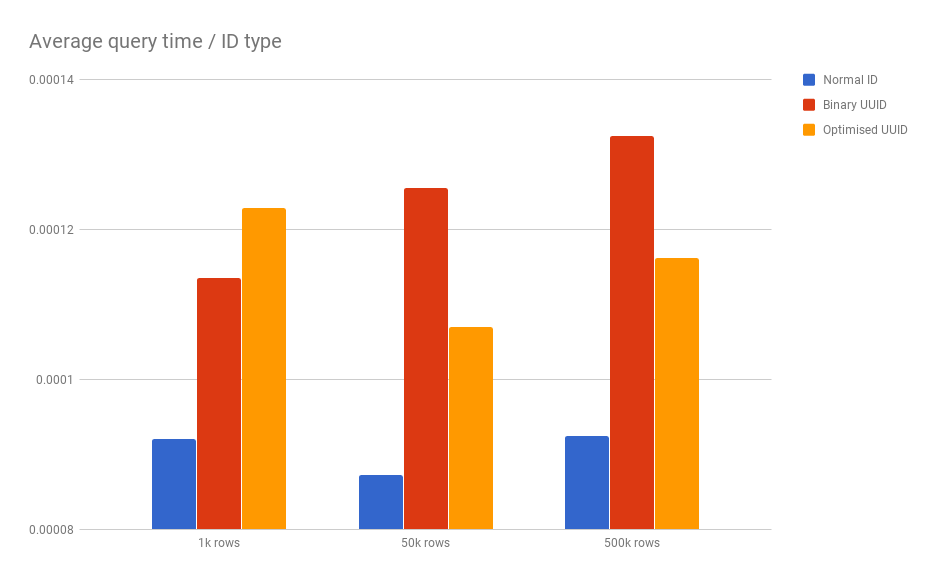
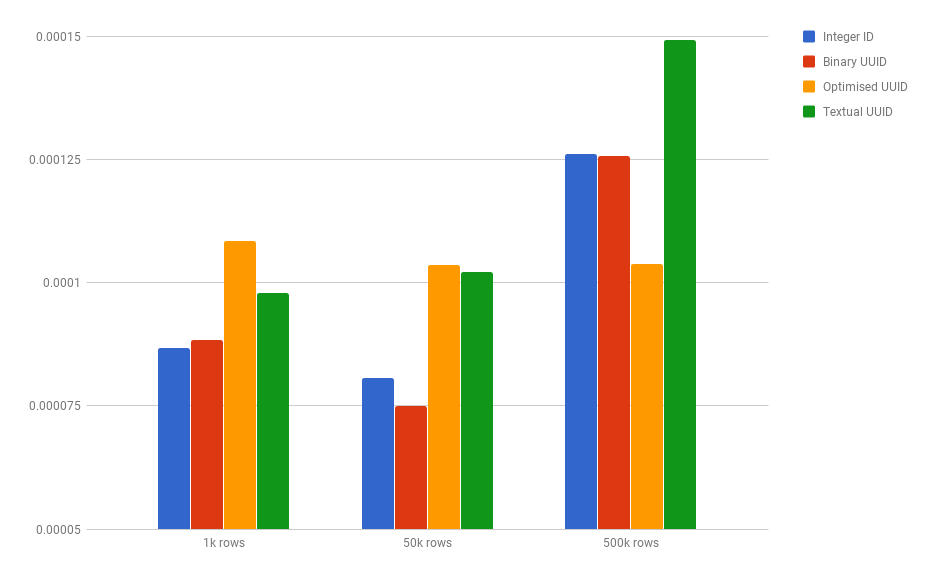
Update comparison data

diff --git a/tests/Benchmark/OptimisedUuid.php b/tests/Benchmark/OptimisedUuid.php
@@ -3,7 +3,9 @@
 namespace Spatie\BinaryUuid\Test\Benchmark;
 
 use Ramsey\Uuid\Uuid;
+use Ramsey\Uuid\UuidInterface;
 use Spatie\BinaryUuid\Test\Benchmark\Result\InlineResult;
+use Spatie\BinaryUuid\Test\TestModel;
 
 class OptimisedUuid extends Benchmark
 {
@@ -14,46 +16,15 @@ class OptimisedUuid extends Benchmark
 
     public function createTable()
     {
-        $this->connection->exec(<<<'SQL'
+        $this->connection->exec(<<<SQL
 DROP TABLE IF EXISTS `optimised_uuid`;
 
 CREATE TABLE `optimised_uuid` (
-    `optimised_uuid_binary` BINARY(16) NOT NULL,
+    `uuid` BINARY(16) NOT NULL,
+    `text` TEXT NOT NULL,
 
-    `generated_optimised_uuid_text` varchar(36) generated always as
-        (insert(
-            insert(
-                insert(
-                    insert(
-                        hex(
-                            optimised_uuid_binary
-                        ), 9,0,'-'),
-                    14,0,'-'),
-                19,0,'-'),
-            24,0,'-')
-        ) virtual,
-  
-    `generated_normal_uuid_from_optimised_uuid` varchar(36) generated always as
-        (insert(
-            insert(
-                insert(
-                    insert(
-                        hex(
-                            concat(substr(optimised_uuid_binary,5,4),substr(optimised_uuid_binary,3,2),
-                            substr(optimised_uuid_binary,1,2),substr(optimised_uuid_binary,9,8))
-                        ), 9,0,'-'),
-                    14,0,'-'),
-                19,0,'-'),
-            24,0,'-')
-        ) virtual,
-    
-    `normal_uuid_text` char(36),
-
-    PRIMARY KEY (`optimised_uuid_binary`),
-    UNIQUE (`normal_uuid_text`)
+    KEY (`uuid`)
 ) ENGINE=InnoDB DEFAULT CHARSET=utf8;
-
-ALTER TABLE `optimised_uuid` ADD unique(`optimised_uuid_binary`);
 SQL
         );
     }
@@ -63,15 +34,14 @@ SQL
         $queries = [];
 
         for ($i = 0; $i < $this->recordsInTable; $i++) {
-            $uuid = Uuid::uuid1()->toString();
-            $uuidWithoutDash = str_replace('-', '', $uuid);
+            $uuid = Uuid::uuid1();
+
+            $encodedUuid = $this->encodeBinary($uuid);
+
+            $text = $this->randomTexts[array_rand($this->randomTexts)];
 
             $queries[] = <<<SQL
-INSERT INTO `optimised_uuid` (`optimised_uuid_binary`, `normal_uuid_text`) VALUES (
-  concat(substr(unhex('$uuidWithoutDash'), 7, 2), substr(unhex('$uuidWithoutDash'), 5, 2),
-        substr(unhex('$uuidWithoutDash'), 1, 4), substr(unhex('$uuidWithoutDash'), 9, 8)),
-  '$uuid'
-);
+INSERT INTO `optimised_uuid` (`uuid`, `text`) VALUES ('$encodedUuid', '$text');
 SQL;
 
             if (count($queries) > $this->flushAmount) {
@@ -88,17 +58,33 @@ SQL;
     public function run(): InlineResult
     {
         $queries = [];
-        $uuids = $this->connection->fetchAll('SELECT HEX(`optimised_uuid_binary`) AS optimised_uuid_binary FROM `optimised_uuid`');
+        $uuids = $this->connection->fetchAll('SELECT `uuid` FROM `optimised_uuid`');
 
         for ($i = 0; $i < $this->benchmarkRounds; $i++) {
-            $uuid = $uuids[array_rand($uuids)]['optimised_uuid_binary'];
+            $uuid = $uuids[array_rand($uuids)]['uuid'];
 
             $queries[] = <<<SQL
 SELECT * FROM `optimised_uuid` 
-WHERE `optimised_uuid_binary` = UNHEX('$uuid');
+WHERE `uuid` = '$uuid';
 SQL;
         }
 
         return $this->runQueryBenchmark($queries);
+    }
+
+    protected function encodeBinary(UuidInterface $uuid): string
+    {
+        $fields = $uuid->getFieldsHex();
+
+        $optimized = [
+            $fields['time_hi_and_version'],
+            $fields['time_mid'],
+            $fields['time_low'],
+            $fields['clock_seq_hi_and_reserved'],
+            $fields['clock_seq_low'],
+            $fields['node'],
+        ];
+
+        return hex2bin(implode('', $optimized));
     }
 }

diff --git a/tests/Benchmark/TextualUuid.php b/tests/Benchmark/TextualUuid.php
@@ -2,12 +2,11 @@
 
 namespace Spatie\BinaryUuid\Test\Benchmark;
 
+use Ramsey\Uuid\Uuid;
 use Spatie\BinaryUuid\Test\Benchmark\Result\InlineResult;
 
 class TextualUuid extends Benchmark
 {
-    private $benchmarkRoundsTextualUuid;
-
     public function name(): string
     {
         return 'Textual UUID';
@@ -15,28 +14,52 @@ class TextualUuid extends Benchmark
 
     public function createTable()
     {
+        $this->connection->exec(<<<SQL
+DROP TABLE IF EXISTS `textual_uuid`;
+
+CREATE TABLE `textual_uuid` (
+    `uuid` CHAR(36) NOT NULL,
+    `text` TEXT NOT NULL,
+    
+    KEY (`uuid`)
+) ENGINE=InnoDB DEFAULT CHARSET=utf8;
+SQL
+        );
     }
 
     public function seedTable()
     {
-    }
+        $queries = [];
 
-    public function withBenchmarkRoundsTextualUuid($benchmarkRoundsTextualUuid): self
-    {
-        $this->benchmarkRoundsTextualUuid = $benchmarkRoundsTextualUuid;
+        for ($i = 0; $i < $this->recordsInTable; $i++) {
+            $uuid = Uuid::uuid1()->toString();
 
-        return $this;
+            $text = $this->randomTexts[array_rand($this->randomTexts)];
+
+            $queries[] = <<<SQL
+INSERT INTO `textual_uuid` (`uuid`, `text`) VALUES ('$uuid', '$text');
+SQL;
+
+            if (count($queries) > $this->flushAmount) {
+                $this->connection->exec(implode('', $queries));
+                $queries = [];
+            }
+        }
+
+        if (count($queries)) {
+            $this->connection->exec(implode('', $queries));
+        }
     }
 
     public function run(): InlineResult
     {
         $queries = [];
-        $uuids = $this->connection->fetchAll('SELECT `normal_uuid_text` FROM `optimised_uuid`');
+        $uuids = $this->connection->fetchAll('SELECT `uuid` FROM `textual_uuid`');
 
-        for ($i = 0; $i < $this->benchmarkRoundsTextualUuid; $i++) {
-            $uuid = $uuids[array_rand($uuids)]['normal_uuid_text'];
+        for ($i = 0; $i < $this->benchmarkRounds; $i++) {
+            $uuid = $uuids[array_rand($uuids)]['uuid'];
 
-            $queries[] = "SELECT * FROM `optimised_uuid` WHERE `normal_uuid_text` = '$uuid';";
+            $queries[] = "SELECT * FROM `textual_uuid` WHERE `uuid` = '$uuid';";
         }
 
         return $this->runQueryBenchmark($queries);

diff --git a/tests/Benchmark/BinaryUuid.php b/tests/Benchmark/BinaryUuid.php
@@ -14,24 +14,15 @@ class BinaryUuid extends Benchmark
 
     public function createTable()
     {
-        $this->connection->exec(<<<'SQL'
-DROP TABLE IF EXISTS `normal_uuid`;
+        $this->connection->exec(<<<SQL
+DROP TABLE IF EXISTS `binary_uuid`;
 
-CREATE TABLE `normal_uuid` (
+CREATE TABLE `binary_uuid` (
     `uuid` BINARY(16) NOT NULL,
-    `uuid_text` char(36) generated always as
-        (insert(
-            insert(
-                insert(
-                    insert(hex(uuid),9,0,'-'),
-                14,0,'-'),
-            19,0,'-'),
-            24,0,'-')
-        ) virtual,
     `text` TEXT NOT NULL,
-
-    PRIMARY KEY (`uuid`)
-) ENGINE=InnoDB DEFAULT CHARSET=utf8;
+    
+    KEY (`uuid`)
+) ENGINE=InnoDB DEFAULT CHARSET=utf8 COLLATE=utf8_unicode_ci;
 SQL
         );
     }
@@ -41,12 +32,12 @@ SQL
         $queries = [];
 
         for ($i = 0; $i < $this->recordsInTable; $i++) {
-            $uuid = Uuid::uuid1()->toString();
+            $uuid = str_replace('-', '', Uuid::uuid1()->toString());
 
             $text = $this->randomTexts[array_rand($this->randomTexts)];
 
             $queries[] = <<<SQL
-INSERT INTO `normal_uuid` (`uuid`, `text`) VALUES (UNHEX(REPLACE("$uuid", "-","")), '$text');
+INSERT INTO `binary_uuid` (`uuid`, `text`) VALUES (UNHEX('$uuid'), "$i $text");
 SQL;
 
             if (count($queries) > $this->flushAmount) {
@@ -63,12 +54,12 @@ SQL;
     public function run(): InlineResult
     {
         $queries = [];
-        $uuids = $this->connection->fetchAll('SELECT `uuid_text` FROM `normal_uuid`');
+        $uuids = $this->connection->fetchAll('SELECT `uuid` FROM `binary_uuid`');
 
         for ($i = 0; $i < $this->benchmarkRounds; $i++) {
-            $uuid = $uuids[array_rand($uuids)]['uuid_text'];
+            $uuid = $uuids[array_rand($uuids)]['uuid'];
 
-            $queries[] = "SELECT * FROM `normal_uuid` WHERE `uuid` = UNHEX(REPLACE('$uuid', '-', ''));";
+            $queries[] = 'SELECT * FROM `binary_uuid` WHERE `uuid` = "$uuid";';
         }
 
         return $this->runQueryBenchmark($queries);

diff --git a/tests/Benchmark/BenchmarkTest.php b/tests/Benchmark/BenchmarkTest.php
@@ -35,9 +35,7 @@ class BenchmarkTest extends TestCase
             new NormalId($this->connection),
             new BinaryUuid($this->connection),
             new OptimisedUuid($this->connection),
-            new OptimisedUuidFromText($this->connection),
-            (new TextualUuid($this->connection))
-                ->withBenchmarkRoundsTextualUuid(getenv('BENCHMARK_ROUNDS_TEXTUAL_UUID')),
+            new TextualUuid($this->connection),
         ]);
 
         $this->writeln('Starting benchmarks...');
@@ -59,7 +57,11 @@ class BenchmarkTest extends TestCase
     {
         $max = getenv('RECORDS_IN_TABLE');
 
-        return array_filter([100, 1000, 50000, 500000], function ($recordsInTable) use ($max) {
+        return array_filter([
+            1000,
+            50000,
+            500000,
+        ], function ($recordsInTable) use ($max) {
             return $recordsInTable <= $max;
         });
     }

diff --git a/tests/Benchmark/NormalId.php b/tests/Benchmark/NormalId.php
@@ -13,13 +13,14 @@ class NormalId extends Benchmark
 
     public function createTable()
     {
-        $this->connection->exec(<<<'SQL'
+        $this->connection->exec(<<<SQL
 DROP TABLE IF EXISTS `normal_id`;
 
 CREATE TABLE `normal_id` (
     `id` INT(11) UNSIGNED NOT NULL AUTO_INCREMENT,
     `text` TEXT NOT NULL,
-    PRIMARY KEY (`id`)
+    
+    KEY (`id`)
 ) ENGINE=InnoDB DEFAULT CHARSET=utf8;
 SQL
         );

diff --git a/tests/Benchmark/Benchmark.php b/tests/Benchmark/Benchmark.php
@@ -2,6 +2,7 @@
 
 namespace Spatie\BinaryUuid\Test\Benchmark;
 
+use Doctrine\DBAL\Exception\SyntaxErrorException;
 use Faker\Factory;
 use Doctrine\DBAL\Driver\Connection;
 use Doctrine\DBAL\Logging\DebugStack;

diff --git a/README.md b/README.md
@@ -159,20 +159,7 @@ You may use this data to further investigate the performance of UUIDs in your lo
 
 Here are some results for the benchmarks running on our machine.
 
-*Querying with normal IDs is the fastest.*
-
-![Querying with normal IDs is the fastest](https://spatie.github.io/laravel-binary-uuid/normal_id.png "Querying with normal IDs")
-
-*Textual UUIDs by themselves are slow, and don't scale with bigger data sets.*
-
-![Textual UUIDs don't scale](https://spatie.github.io/laravel-binary-uuid/textual_uuid.png "Querying with textual UUIDs")
-
-*The solution provided by this package allows for much better UUID lookups because they are binary encoded and optimised. 
-This allows MySQL to better index them.*
-
-![Optimised binary UUIDs are much beter](https://spatie.github.io/laravel-binary-uuid/optimised_binary_uuid.png "Querying with binary optimised IDs")
-
-*A comparison of the normal ID, binary UUID and optimised UUID approach. Optimised UUIDs outperform binary UUIDs on larger datasets.*
+*A comparison of the normal ID, binary UUID and optimised UUID approach. Optimised UUIDs outperform all other on larger datasets.*
 
 ![Comparing different methods](https://spatie.github.io/laravel-binary-uuid/comparison.png "Comparing different methods")
 
